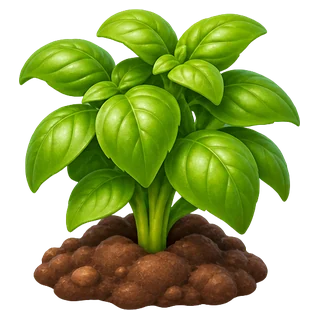
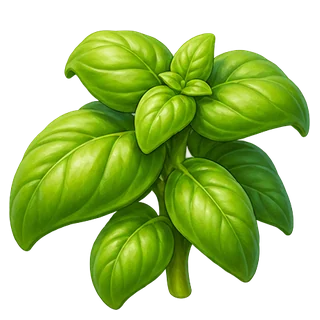
Nouvelles images sans terre pour basilic, tomate, myrtille, lavande, potiron et tournesol (0.16.0)
Les 12 plantes de base ont maintenant leurs 6 images. Retire les
anciens remplacements devenus inutiles.

Claude-Session: https://claude.ai/code/session_018D5HKJWKwN88xpAGuhHMQJ

diff --git a/index.html b/index.html
@@ -6,13 +6,13 @@
   <title>Potager idle</title>
   <meta name="description" content="Un petit jeu idle de potager : plante, arrose, récolte, cuisine et découvre des variétés hybrides.">
   <meta name="theme-color" content="#f2f9e6" id="theme-color">
-  <link rel="manifest" href="manifest.webmanifest?v=72">
+  <link rel="manifest" href="manifest.webmanifest?v=73">
   <link rel="icon" href="icons/favicon-32.png" sizes="32x32" type="image/png">
   <link rel="icon" href="icons/favicon-64.png" sizes="64x64" type="image/png">
   <link rel="icon" href="icons/icon-192.png" sizes="192x192" type="image/png">
   <link rel="preload" href="fonts/nunito-latin.woff2" as="font" type="font/woff2" crossorigin>
   <link rel="preload" href="fonts/fredoka-latin.woff2" as="font" type="font/woff2" crossorigin>
-  <link rel="stylesheet" href="css/style.css?v=72">
+  <link rel="stylesheet" href="css/style.css?v=73">
 </head>
 <body>
 <div id="app">
@@ -41,9 +41,9 @@
 <div id="fx"></div>
 <div id="toasts" aria-live="polite"></div>
 
-<script src="js/data.js?v=72"></script>
-<script src="assets/img/manifest.js?v=72"></script>
-<script src="js/art.js?v=72"></script>
-<script src="js/game.js?v=72"></script>
+<script src="js/data.js?v=73"></script>
+<script src="assets/img/manifest.js?v=73"></script>
+<script src="js/art.js?v=73"></script>
+<script src="js/game.js?v=73"></script>
 </body>
 </html>

diff --git a/js/art.js b/js/art.js
@@ -210,9 +210,9 @@ function cropArt(k) { return hasImg("plants", k) ? imgSvg(`assets/img/${k}-crop.
 function seedArt(k) { return hasImg("plants", k) ? imgSvg(`assets/img/${k}-seeds.webp`) : packetArt(k); }
 
 /* Pousses et jeunes plants dessinés sans terre, posés directement dans le bac. */
-const SPROUTS = new Set(["rubis", "lilas", "citrouillotte", "bledor", "fraisille", "basilomate", "lune", "poivree", "radis", "laitue", "patate", "carotte", "ble", "fraise"]);
+const SPROUTS = new Set(["rubis", "lilas", "citrouillotte", "bledor", "fraisille", "basilomate", "lune", "poivree", "radis", "laitue", "patate", "carotte", "ble", "fraise", "basilic", "tomate", "myrtille", "lavande", "potiron", "tournesol"]);
 /* Plantes mûres dessinées sans terre (posées directement dans le bac). */
-const RIPE_NO_SOIL = new Set(["radis", "laitue", "patate", "carotte", "ble", "fraise"]);
+const RIPE_NO_SOIL = new Set(["radis", "laitue", "patate", "carotte", "ble", "fraise", "basilic", "tomate", "myrtille", "lavande", "potiron", "tournesol"]);
 function plantArt(k, stage, inPlot) {
   if (stage === 1 && SPROUTS.has(k)) return imgSvg(`assets/img/${k}-sprout.webp`, "art img sprout");
   if (stage === 2 && SPROUTS.has(k)) return imgSvg(`assets/img/${k}-young.webp`, "art img young");

diff --git a/js/game.js b/js/game.js
@@ -1,7 +1,7 @@
 "use strict";
 /* Numéro de version affiché dans les Paramètres.
    À chaque mise à jour : changer APP_VERSION, le ?v= dans index.html et VERSION dans sw.js. */
-const APP_VERSION = "0.15.5";
+const APP_VERSION = "0.16.0";
 /* ---------------- Helpers ---------------- */
 const $ = s => document.querySelector(s);
 const now = () => Date.now();

diff --git a/sw.js b/sw.js
@@ -1,6 +1,6 @@
 /* Service worker de Potager idle : rend le jeu jouable hors-ligne.
    À chaque mise à jour du jeu, augmente VERSION pour que les téléphones téléchargent la nouvelle version. */
-const VERSION = "potager-v72";
+const VERSION = "potager-v73";
 const FILES = [
   "./",
   "index.html",
